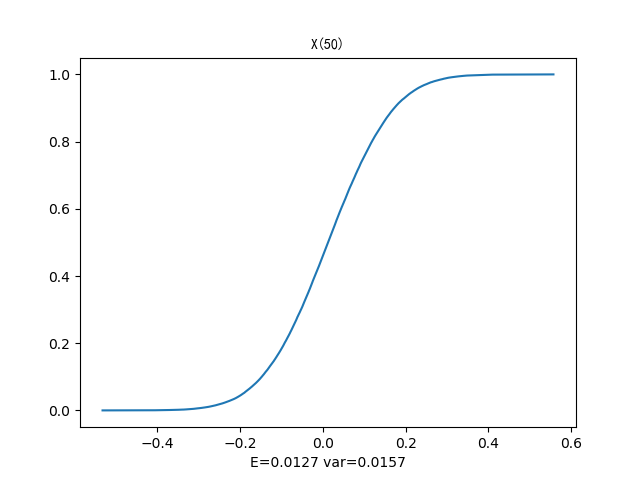
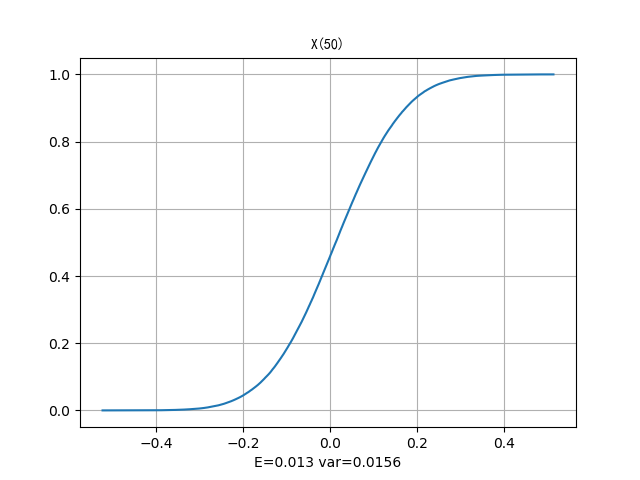
new way of generating random string

diff --git a/empirical/empirical_plotter.py b/empirical/empirical_plotter.py
@@ -2,43 +2,52 @@ from matplotlib import pyplot as plt
 from copy import copy
 from math import ceil
 import numpy as np
-from .mathlib import chi_square_distribution
+from .mathlib import chi_square_distribution, binomial_distribution
+import re
+
 
 class EmpiricalPlotter:
-	def __init__(self, data, title='untitled'):
-		self.title = copy(title)
-		
+    def __init__(self, data, title='untitled'):
+        self.title = copy(title)
+        
 
-		n = len(data)
+        n = len(data)
 
-		self.e = round(sum(data) / n, 4)
-		self.var = round(np.var(data), 4)
+        self.e = round(sum(data) / n, 4)
+        self.var = round(np.var(data), 4)
 
-		data.sort()
+        data.sort()
 
-		self.x = sorted(list(set(data)))
-		self.y = []
-		cur = 0
+        self.x = sorted(list(set(data)))
+        self.y = []
+        cur = 0
 
-		for i in self.x:
-			while cur < len(data) and data[cur] <= i:
-				cur += 1
+        for i in self.x:
+            while cur < len(data) and data[cur] <= i:
+                cur += 1
 
-			self.y.append(cur / n)
+            self.y.append(cur / n)
 
-	def plot(self):
-		plt.plot(self.x, self.y)
-		
+    def plot(self):
+        plt.grid(True)
+        plt.plot(self.x, self.y)
 
-		if self.title == 'X':
-			self.title += ' 与自由度为 3 的卡方分布'
-			x = np.linspace(0, self.x[-1] + 1, 1000)
-			y = [chi_square_distribution(i, 3) for i in x]
-			plt.plot(x, y)
+        if self.title == 'X':
+            self.title += ' 与自由度为 3 的卡方分布'
+            x = np.linspace(0, self.x[-1] + 1, 1000)
+            y = [chi_square_distribution(i, 3) for i in x]
+            plt.plot(x, y)
 
-		if self.title in ('X(1)', 'X(20)', 'X(50)'):
-			plt.xlabel('E=' + str(self.e) + ' var=' + str(self.var))
+        if re.match(r'^X(\d*)', self.title):
+            plt.xlabel('E=' + str(self.e) + ' var=' + str(self.var))
 
-		plt.title(self.title, fontproperties="SimHei")
-		plt.savefig('plot/' + self.title)
-		plt.show()
+        if self.title == '1的个数':
+            n = 200
+            x = list(range(0, n + 1))
+            y = [binomial_distribution(i, n, 0.5) for i in x]
+            plt.plot(x, y)
+
+        plt.title(self.title, fontproperties="SimHei")
+        plt.savefig('plot/' + self.title)
+        plt.show()
+        

diff --git a/empirical/mathlib.py b/empirical/mathlib.py
@@ -1,16 +1,30 @@
 from scipy.special import gamma
 from scipy.integrate import quad
 from numpy import exp
+from numpy.random import binomial
+from scipy import stats
 
 def sqr(x):
-	return x * x
+    return x * x
 
 def gamma_distribution(x, alpha, lambda_):
-	if x < 0:
-		return 0
-	
-	return quad(lambda t: (t ** (alpha - 1)) * (lambda_ ** alpha) * exp(-lambda_ * t), 0, x)[0] / gamma(alpha)
+    if x < 0:
+        return 0
+    
+    return quad(lambda t: (t ** (alpha - 1)) * (lambda_ ** alpha) * exp(-lambda_ * t), 0, x)[0] / gamma(alpha)
 
 def chi_square_distribution(x, n):
-	return gamma_distribution(x, n / 2, 0.5)
+    return gamma_distribution(x, n / 2, 0.5)
 
+def binomial_distribution(k, n, p):
+    if (k < 0):
+        return 0
+    
+    if (k > n):
+        return 1
+
+    ret = 0
+    for i in range(k):
+        ret += stats.binom.pmf(i, n, p)
+
+    return ret

diff --git a/empirical/rand_string.py b/empirical/rand_string.py
@@ -3,7 +3,20 @@ import random
 length = 200
 
 def rand_string():
-	return ''.join([str(random.randint(0, 1)) for _ in range(length)])
+    ret = ''
+    t = 20
+
+    for _ in range(length // t):
+        cur = bin(random.randint(0, (1 << t) - 1))[2:]
+        cur = cur.zfill(t)
+        ret += cur
+
+    if len(ret) != length:
+        raise Exception('wrong string length of %d, 200 expected' % len(ret))
+
+    return ret
+
+    # return ''.join([str(random.randint(0, 1)) for _ in range(length)])
 
 if __name__ == "__main__":
-	pass
+    pass

diff --git a/main_order.py b/main_order.py
@@ -1,12 +1,12 @@
 from order.normal_set import NormalSet
 from empirical.empirical_plotter import EmpiricalPlotter
 
-T = 10000
+T = 100000
 
 if __name__ == "__main__":
 	normals = [NormalSet() for _ in range(T)]
 	
-	for order in (1, 20, 50):
+	for order in (1, 20, 50, 51):
 		data = [n.get_order(order) for n in normals]
 		plotter = EmpiricalPlotter(data, 'X(' + str(order) + ')')
 		plotter.plot()

diff --git a/main_emperical.py b/main_emperical.py
@@ -2,7 +2,7 @@ from empirical.binary_string import BinaryString
 from empirical.rand_string import rand_string, length
 from empirical.empirical_plotter import EmpiricalPlotter
 
-T = 10000
+T = 100000
 
 if __name__ == "__main__":
 	strings = [BinaryString() for _ in range(T)]

diff --git a/README.md b/README.md
@@ -1,2 +1,4 @@
+
 # Empirical
+
 概统大作业III：经验分布和次序统计量的模拟
